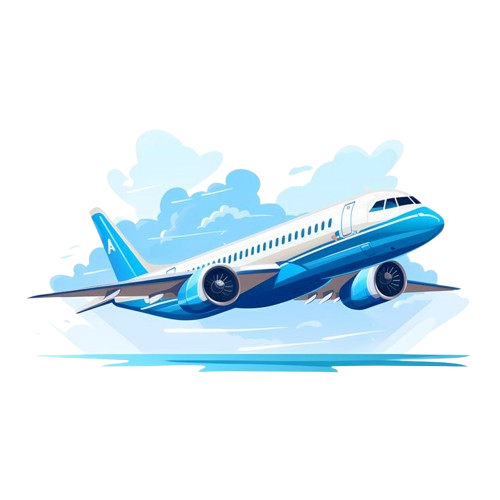
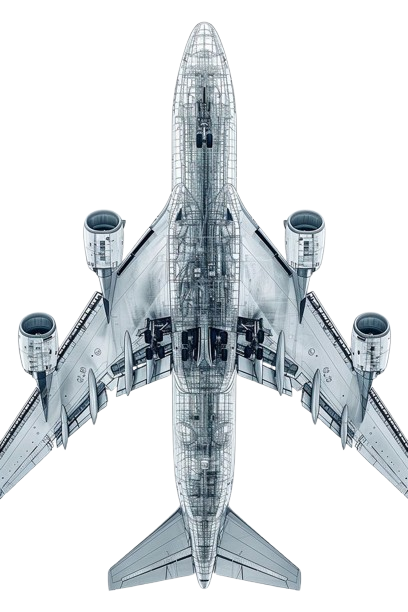
Update OnbAoding Image & Andd Forget password to Login Form

diff --git a/lib/core/auth/ui/widgets/login_form.dart b/lib/core/auth/ui/widgets/login_form.dart
@@ -1,6 +1,9 @@
 import 'package:easy_localization/easy_localization.dart';
 import 'package:flutter/material.dart';
 import 'package:flutter_bloc/flutter_bloc.dart';
+import 'package:ground_scope/core/extensions/context_extensions.dart';
+import 'package:ground_scope/core/themes/app_colors.dart';
+import 'package:ground_scope/core/themes/app_text_styles.dart';
 
 import '../../../utils/spacing.dart';
 import '../../../utils/validators.dart';
@@ -19,7 +22,7 @@ class _LoginFormState extends State<LoginForm> {
   final _formKey = GlobalKey<FormState>();
   final _emailController = TextEditingController();
   final _passwordController = TextEditingController();
-
+  bool _rememberMe = false;
   bool _isPasswordVisible = false;
 
   @override
@@ -70,8 +73,39 @@ class _LoginFormState extends State<LoginForm> {
                   setState(() => _isPasswordVisible = !_isPasswordVisible),
             ),
           ),
-          verticalSpacing(100),
+          Row(
+            children: [
+              Checkbox(
+                checkColor: AppColors.white,
+                activeColor: AppColors.primary300,
+                value: _rememberMe,
+                onChanged: (value) {
+                  setState(() {
+                    _rememberMe = value ?? false;
+                  });
+                },
+              ),
+              Text(
+                'auth.remember_me'.tr(),
+                style: AppTextStyles.font14Regular.copyWith(
+                  color: context.customColors.textSecondary,
+                ),
+              ),
+            ],
+          ),
+          verticalSpacing(60),
           CustomTextButton(text: 'auth.login'.tr(), onPressed: _submit),
+          verticalSpacing(60),
+          GestureDetector(
+            // onTap: () => context.router.pushNamed(Routes.forgotPassword),
+            child: Text(
+              'auth.forgot_password'.tr(),
+              textAlign: TextAlign.center,
+              style: AppTextStyles.font14Regular.copyWith(
+                color: AppColors.primary300,
+              ),
+            ),
+          ),
         ],
       ),
     );

diff --git a/lib/core/onboarding/ui/on_boarding_screen.dart b/lib/core/onboarding/ui/on_boarding_screen.dart
@@ -23,9 +23,11 @@ class OnBoardingScreen extends StatelessWidget {
             child: Column(
               children: [
                 const OnBoardingTopBar(),
-                verticalSpacing(24),
+                verticalSpacing(8),
                 const Center(child: OnBoardingTopLogo()),
+                verticalSpacing(24),
                 const OnBoardingHeroImage(),
+                verticalSpacing(32),
                 Text(
                   "onBoarding.hero_desc".tr(),
                   style: AppTextStyles.font14Regular.copyWith(
@@ -33,7 +35,7 @@ class OnBoardingScreen extends StatelessWidget {
                   ),
                   textAlign: TextAlign.center,
                 ),
-                verticalSpacing(24),
+                verticalSpacing(16),
                 SizedBox(
                   width: responsiveWidth(320),
                   child: CustomTextButton(

diff --git a/lib/core/onboarding/ui/widgets/on_boarding_hero_image.dart b/lib/core/onboarding/ui/widgets/on_boarding_hero_image.dart
@@ -1,4 +1,5 @@
 import 'package:flutter/material.dart';
+
 import '../../../../core/utils/app_assets.dart';
 import '../../../../core/utils/spacing.dart';
 
